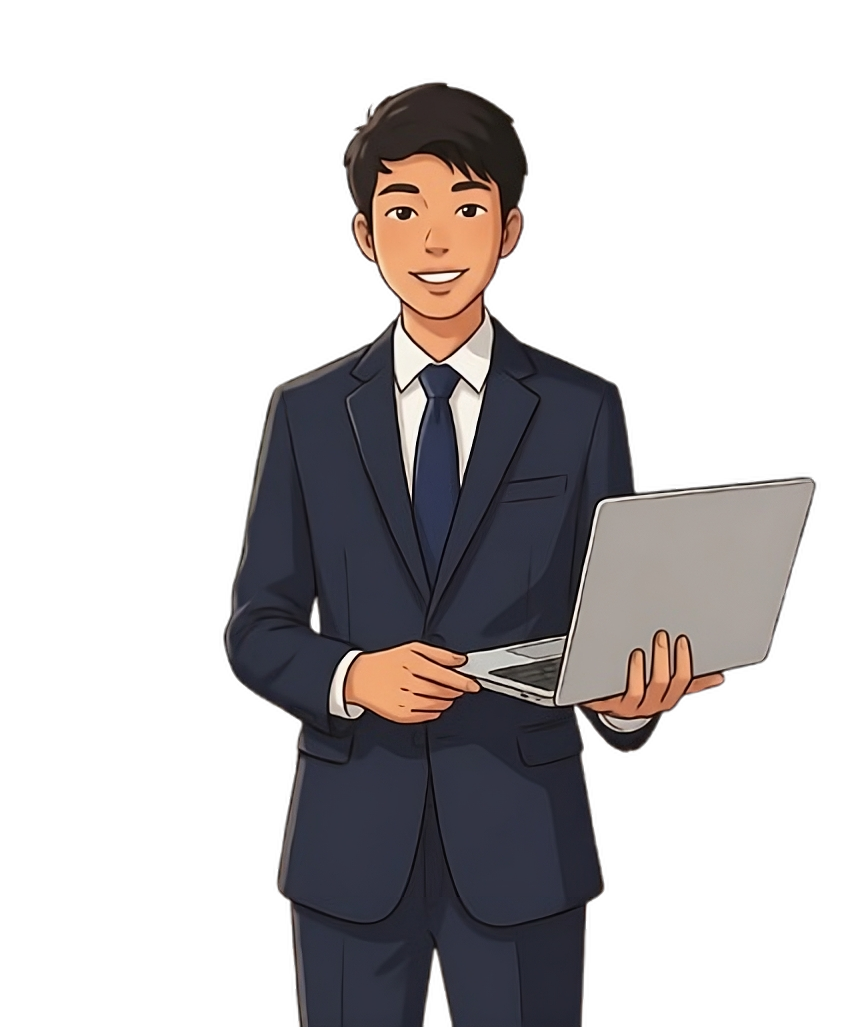
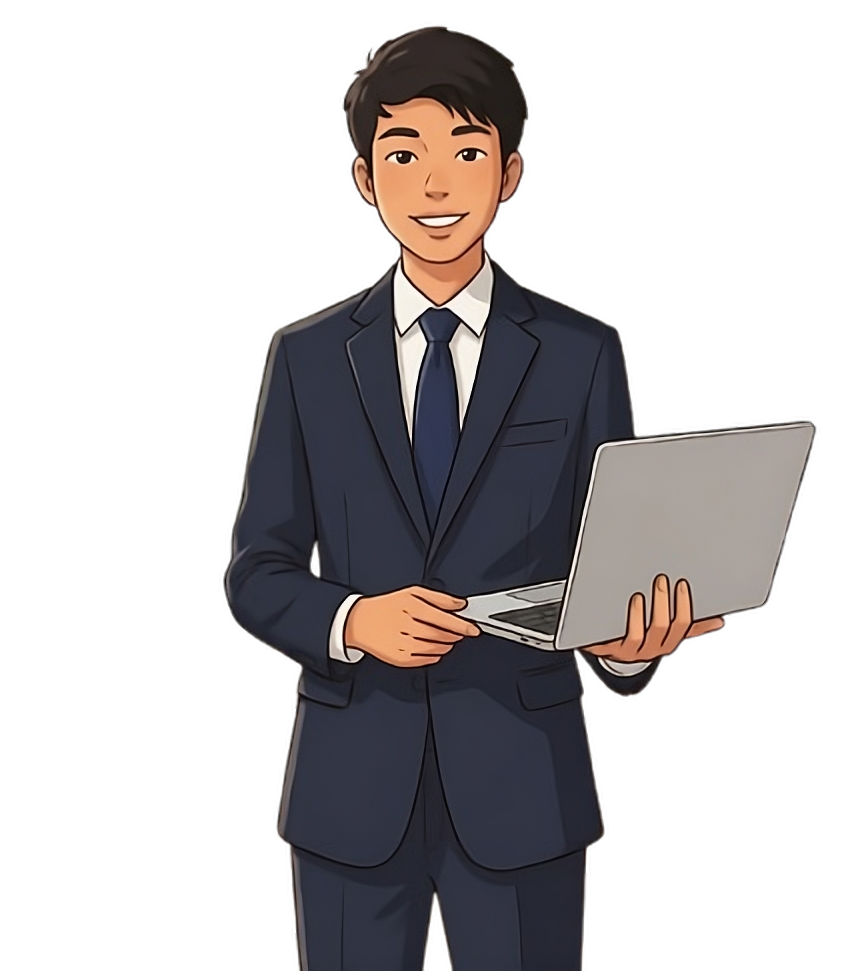
Add files via upload

diff --git a/index.html b/index.html
@@ -6,9 +6,16 @@
     <title>Portfolio</title>
     <link rel="stylesheet" href="style.css" />
     <link rel="icon" type="image/svg+xml" href="images/file.svg" />
+    <link
+      rel="stylesheet"
+      href="https://cdnjs.cloudflare.com/ajax/libs/font-awesome/7.0.1/css/all.min.css"
+      integrity="sha512-2SwdPD6INVrV/lHTZbO2nodKhrnDdJK9/kg2XD1r9uGqPo1cUbujc+IYdlYdEErWNu69gVcYgdxlmVmzTWnetw=="
+      crossorigin="anonymous"
+      referrerpolicy="no-referrer"
+    />
   </head>
   <body>
-    <header>
+    <header class="sticky-wrapper">
       <nav class="navbar">
         <div class="ctn1">
           <a href="https://github.com/ZinLinnHtoo-zenko" target="_blank">
@@ -50,10 +57,23 @@
         <h2>Junior Web Developer</h2>
 
         <p>
-          I am an aspiring software engineer currently building strong
-          foundations in web development. Since 2023, I have been consistently
-          learning and developing modern web projects.
+          Aspiring software engineer passionate about building responsive and
+          modern web applications. Since 2023, I’ve been continuously learning
+          and developing real-world web projects.
         </p>
+
+        <div class="logo-section">
+          <a
+            class="social-logo"
+            href="https://github.com/ZinLinnHtoo-zenko"
+            target="_blank"
+          >
+            <i class="fa-brands fa-github"></i>
+          </a>
+          <a class="social-logo" href="#" target="_blank">
+            <i class="fa-brands fa-linkedin"></i>
+          </a>
+        </div>
       </section>
       <section class="right-section">
         <figure class="profile-figure">
@@ -63,6 +83,17 @@
             class="profile-img"
           />
         </figure>
+      </section>
+    </main>
+    <main class="about">
+      <section>
+        <ul>
+          <li>Started learning web development in 2023</li>
+          <li>Interested in frontend/backend/software engineering</li>
+          <li>Enjoy building responsive UI</li>
+          <li>Currently improving problem solving and real projects</li>
+          <li>Pursuing B.Tech program in Sharda University</li>
+        </ul>
       </section>
     </main>
   </body>

diff --git a/style.css b/style.css
@@ -15,6 +15,13 @@
   --secondary-color: #8c9a9e;
 }
 
+.sticky-wrapper {
+  position: sticky;
+  top: 0;
+  z-index: 1000;
+  background: transparent;
+}
+
 .navbar {
   display: flex;
   gap: 2rem;
@@ -87,12 +94,14 @@ a:hover {
 .hero {
   display: grid;
   grid-template-columns: 2fr 2fr;
+  border: 2px solid var(--primary-color);
+  margin: 2rem;
 }
 
 .left-section {
   display: flex;
   flex-direction: column;
-  margin: 8rem;
+  margin: 4rem;
 }
 
 h1 {
@@ -112,14 +121,41 @@ span {
   justify-content: end;
 }
 
+.profile-img {
+  width: 74%;
+}
+
 h2 {
   text-align: center;
   color: var(--secondary-color);
 }
 
 p {
-  margin-top: 8rem;
-  line-height: 4rem;
+  margin-top: 2rem;
+  line-height: 3.2rem;
   font-size: 2rem;
   text-align: justify;
+}
+
+.logo-section {
+  display: flex;
+  justify-content: center;
+  margin-top: 3.2rem;
+  gap: 2rem;
+}
+
+.social-logo {
+  font-size: 2.8rem;
+}
+
+.fa-github:hover {
+  color: var(--secondary-color);
+}
+
+.fa-linkedin {
+  color: var(--primary-color);
+}
+
+.fa-linkedin:hover {
+  color: var(--secondary-color);
 }
